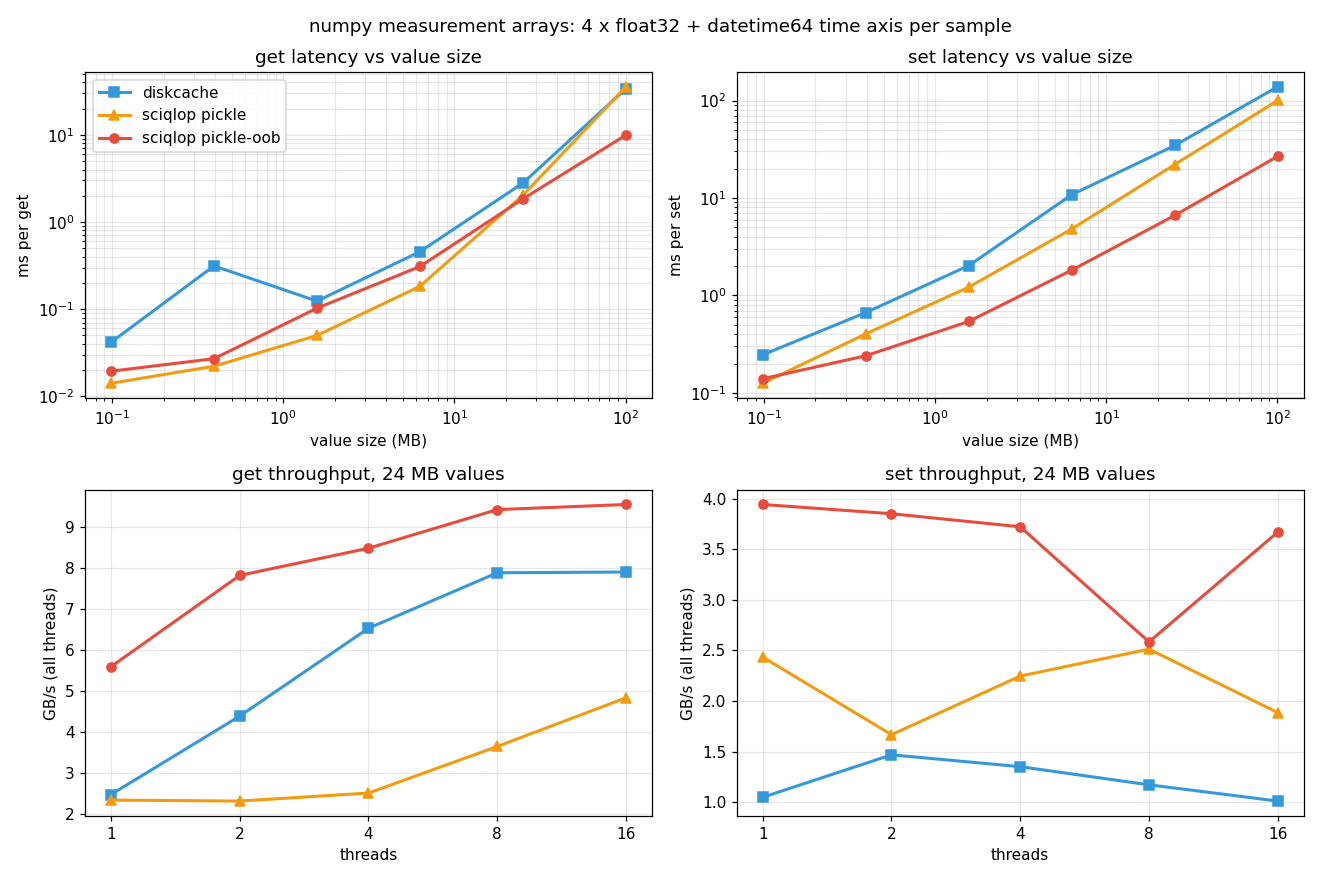
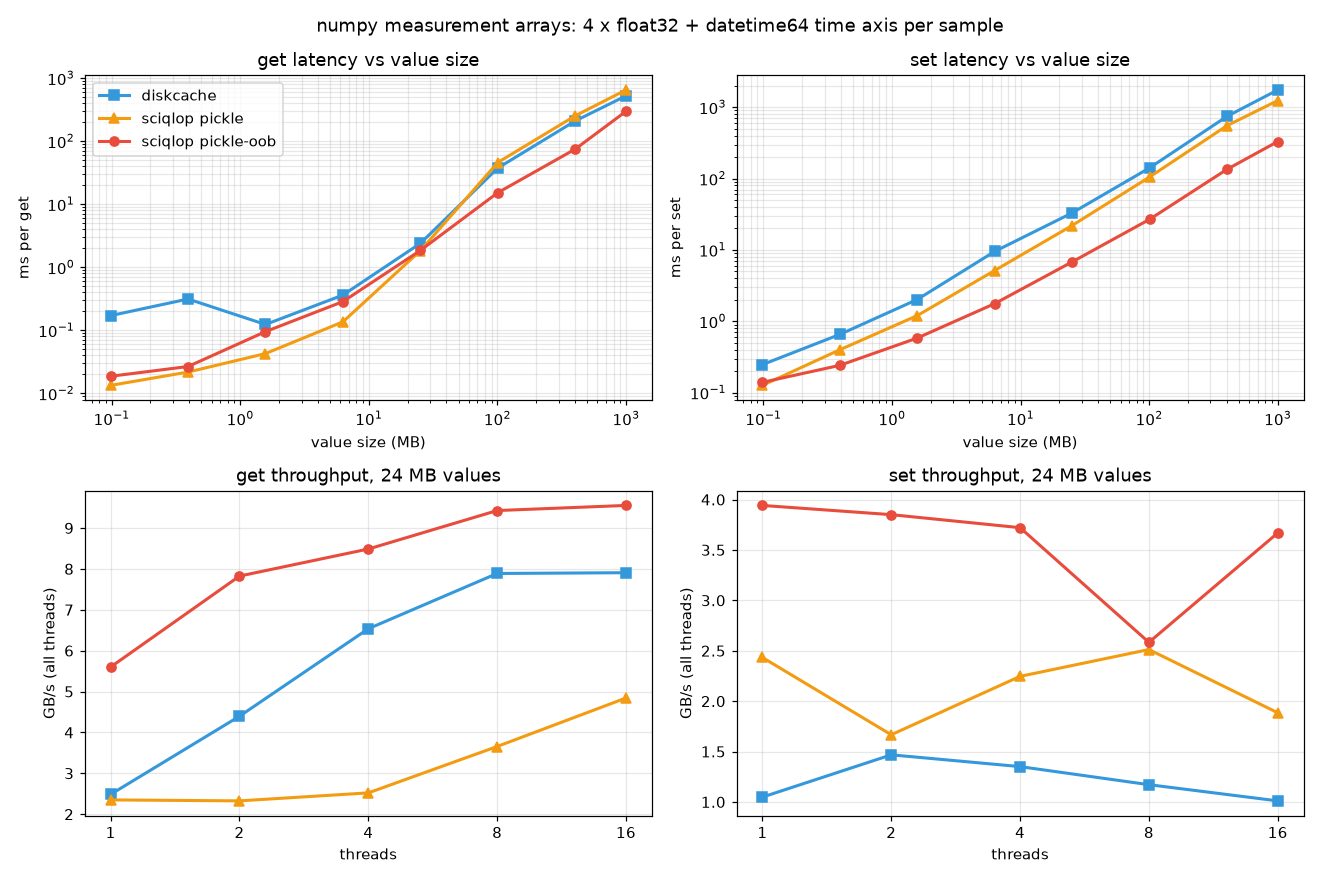
bench: numpy arrays up to 1 GB, reads timed before overwrites
The size sweep now goes to 1 GB (403 MB and 1 GB points), with fewer
rotating keys and repetitions above 200 MB so its RAM use stays
bounded (TMPDIR is a RAM filesystem).

Two measurement fixes found on the way:
- get was timed right after overwriting the same big values, while the
  background thread freed the replaced files: that kernel work slowed
  concurrent reads (400 MB pickle-oob get: ~450 ms instead of 68 ms).
  get is now timed first, on a value written once.
- disk use was the store's size before and after one more set, which
  went negative above 100 MB (diskcache's 1 GiB default limit evicts,
  our trash deletes replaced files meanwhile). It is now measured in a
  fresh store holding one value.

Results (median of three runs; thread sweep rows unchanged): pickle-oob
is the fastest everywhere from 100 MB, 1 GB read 0.30 s vs 0.65 s
(pickle) and 0.52 s (diskcache), write 0.33 s vs 1.24 s and 1.75 s.

The docs explain the one machine effect that showed up: a 1 GB
pickle-oob read took 1 s instead of 0.24 s while memory was fragmented
(the kernel failed to build the huge pages numpy asks for).

diff --git a/benchmark/bench_arrays.py b/benchmark/bench_arrays.py
@@ -5,7 +5,7 @@ A value is a measurement series: `rows` samples of 4 float32 values plus a
 datetime64[ns] time axis (24 bytes per row), the kind of object a data
 cache holds. Two sweeps:
 
-- size:    one thread, rows from 4 Ki to 4 Mi (100 KB to 100 MB per value):
+- size:    one thread, rows from 4 Ki to 42 Mi (100 KB to 1 GB per value):
            set/get latency (ms) and disk use (MB per value);
 - threads: 24 MB values, 1 to 16 threads each getting (or setting) its own
            keys: total throughput (GB/s).
@@ -13,8 +13,13 @@ cache holds. Two sweeps:
 Outputs CSV to stdout.
 Usage:
     TMPDIR=/dev/shm PYTHONPATH=build python benchmark/bench_arrays.py > benchmark/arrays_results.csv
+    ... bench_arrays.py --sweeps size     # only one sweep
+
+The 1 GB point keeps about 6 GB on TMPDIR at its peak (values plus the trash's
+5 s grace period) and ~3 GB in the process.
 """
 
+import argparse
 import csv
 import os
 import statistics
@@ -35,7 +40,9 @@ BACKENDS = {
     "sciqlop pickle": SciqlopCache,
     "sciqlop pickle-oob": lambda path: SciqlopCache(path, serializer=PickleOOBSerializer()),
 }
-SIZE_ROWS = [4_096, 16_384, 65_536, 262_144, 1_048_576, 4_194_304]
+SIZE_ROWS = [4_096, 16_384, 65_536, 262_144, 1_048_576, 4_194_304, 16_777_216, 41_666_667]
+# Above this, fewer rotating keys and repetitions keep RAM use bounded (TMPDIR is RAM).
+BIG_VALUE = 200_000_000
 THREAD_ROWS = 1_048_576
 THREADS = [1, 2, 4, 8, 16]
 THREAD_KEYS = 32
@@ -67,22 +74,36 @@ def disk_bytes(path):
     return sum(f.stat().st_size for f in Path(path).rglob("*") if f.is_file())
 
 
+def disk_per_value(factory, value):
+    """Disk use of one value, in a fresh store: in a store being overwritten, eviction
+    (diskcache's 1 GiB default limit) and the trash's delayed deletes skew the delta."""
+    with TemporaryDirectory() as tmp:
+        cache = factory(tmp)
+        empty = disk_bytes(tmp)
+        cache.set("measured", value)
+        cache.close()
+        return disk_bytes(tmp) - empty
+
+
 def size_sweep(writer):
     for rows in SIZE_ROWS:
         value = Series(rows)
-        repeat = max(5, min(200, 2_000_000_000 // (value.nbytes * 100)))
+        big = value.nbytes >= BIG_VALUE
+        repeat = 3 if big else max(5, min(200, 2_000_000_000 // (value.nbytes * 100)))
+        rotating = 2 if big else 4
         for name, factory in BACKENDS.items():
             with TemporaryDirectory() as tmp:
                 cache = factory(tmp)
                 keys = iter(range(10**9))
-                cache.set("warm", value)
-                cache.get("warm")
-                set_ms = median_ms(lambda: cache.set(f"k{next(keys) % 4}", value), repeat)
+                # get is timed before any overwrite: overwriting big values makes the
+                # background thread free their files a few seconds later, and that kernel
+                # work slowed concurrent reads (400 MB pickle-oob get: ~450 ms vs 68 ms).
+                cache.set("k0", value)
+                assert cache.get("k0") is not None
                 get_ms = median_ms(lambda: cache.get("k0"), repeat)
-                before = disk_bytes(tmp)
-                cache.set("measured", value)
-                per_value = disk_bytes(tmp) - before
+                set_ms = median_ms(lambda: cache.set(f"k{next(keys) % rotating}", value), repeat)
                 cache.close()
+            per_value = disk_per_value(factory, value)
             for op, result in (("set", set_ms), ("get", get_ms), ("disk", per_value / 1e6)):
                 writer.writerow([name, "size", op, value.nbytes, f"{result:.4f}"])
         print(f"  size sweep: {value.nbytes / 1e6:8.1f} MB done", file=sys.stderr)
@@ -116,10 +137,15 @@ def thread_sweep(writer):
 
 
 def main():
+    parser = argparse.ArgumentParser(description=__doc__, formatter_class=argparse.RawDescriptionHelpFormatter)
+    parser.add_argument("--sweeps", nargs="+", choices=["size", "threads"], default=["size", "threads"])
+    sweeps = parser.parse_args().sweeps
     writer = csv.writer(sys.stdout, lineterminator="\n")
     writer.writerow(["backend", "sweep", "operation", "x", "value"])
-    size_sweep(writer)
-    thread_sweep(writer)
+    if "size" in sweeps:
+        size_sweep(writer)
+    if "threads" in sweeps:
+        thread_sweep(writer)
 
 
 if __name__ == "__main__":

diff --git a/docs/performance.rst b/docs/performance.rst
@@ -198,7 +198,7 @@ numpy arrays
 ============
 
 Here the values are measurement series: float32 samples (4 per row) plus a datetime64
-time axis, from 100 KB to 100 MB each. All three store them with pickle protocol 5.
+time axis, from 100 KB to 1 GB each. All three store them with pickle protocol 5.
 diskcache and the default serializer keep the array bytes inside the pickle;
 :class:`~pysciqlop_cache.PickleOOBSerializer` stores them next to it, compressed when that
 pays off (see :doc:`serializers`).
@@ -218,14 +218,23 @@ pays off (see :doc:`serializers`).
         .. image:: ../benchmark/macos-m2/arrays_chart.png
             :alt: numpy arrays: diskcache vs pickle vs pickle-oob (macOS, Apple M2)
 
-- **Writes:** pickle-oob is the fastest from 400 KB up, and ~5x faster than diskcache at
-  100 MB. The arrays go to disk with no copy into a pickle buffer.
+- **Writes:** pickle-oob is the fastest from 400 KB up, and ~5x faster than diskcache
+  from 100 MB to 1 GB (1 GB: 0.33 s vs 1.75 s). The arrays go to disk with no copy into
+  a pickle buffer.
 - **Reads, one thread:** below 1 MB, both SciQLop Cache serializers are 3x to 14x faster
   than diskcache. The benchmark reads the same key again, and SciQLop Cache keeps the
   last 128 files it loaded open, so only the unpickling is left. Between 1 and 10 MB,
   pickle-oob is a little slower than the default serializer: decompressing the time axis
-  costs more than copying it. From 25 MB it is the fastest, 3.4x at 100 MB.
-  ``PickleOOBSerializer(compress=False)`` skips the decompression.
+  costs more than copying it. From 100 MB it is the fastest: 3x the default serializer
+  at 100 MB, 2.2x at 1 GB (0.30 s, vs 0.65 s, and 0.52 s for diskcache). From 100 MB the
+  default serializer reads slower than diskcache: its copy into the pickle runs with the
+  GIL held. ``PickleOOBSerializer(compress=False)`` skips the decompression.
+- **Very large reads and huge pages:** a decoded array is fresh memory, and numpy asks
+  the kernel for 2 MB pages for it. When free memory is fragmented, the kernel tries to
+  compact it on every page fault, fails, and falls back to 4 KB pages: on this machine,
+  with 24 GB of stale files in a RAM ``/tmp``, a 1 GB pickle-oob read took 1 s instead of
+  0.24 s (``/proc/vmstat``: ``compact_fail``). Any large numpy allocation pays this, not
+  only the cache; ``NUMPY_MADVISE_HUGEPAGE=0`` trades the fast case for a steady 0.5 s.
 - **Reads, many threads:** the array bytes are copied without the GIL, so throughput
   keeps growing with the thread count: 9.6 GB/s at 16 threads, against 7.9 GB/s for
   diskcache (its file reads release the GIL) and 4.8 GB/s for the default serializer (it
@@ -245,7 +254,9 @@ On the Apple M2 the picture is the same, with two differences:
   RAM disk on a 16 GB machine can hold. All three libraries then write at 0.9 to 1.7 GB/s,
   the speed of the SSD, so these numbers can't be compared with the Linux ``tmpfs`` ones.
 
-Both runs were on lightly loaded machines (load average 2–4), not idle ones.
+The M2 charts stop at 100 MB. Both runs were on lightly loaded machines (load average
+2–4; about 1 for the Linux size sweep up to 1 GB, the median of three runs), not idle
+ones.
 
 Reproducing the benchmarks
 ==========================

diff --git a/README.md b/README.md
@@ -132,7 +132,7 @@ unpickling runs code: keep the folder private, or use the msgspec serializer
 ## Performance
 
 Measured against diskcache, both with their default settings, on a RAM filesystem, on
-Linux (x86-64) and macOS (Apple M2). Numpy measurement arrays from 100 KB to 100 MB, and 1
+Linux (x86-64) and macOS (Apple M2). Numpy measurement arrays from 100 KB to 1 GB, and 1
 to 16 threads, on Linux:
 
 ![numpy array benchmark](benchmark/arrays_chart.png)
